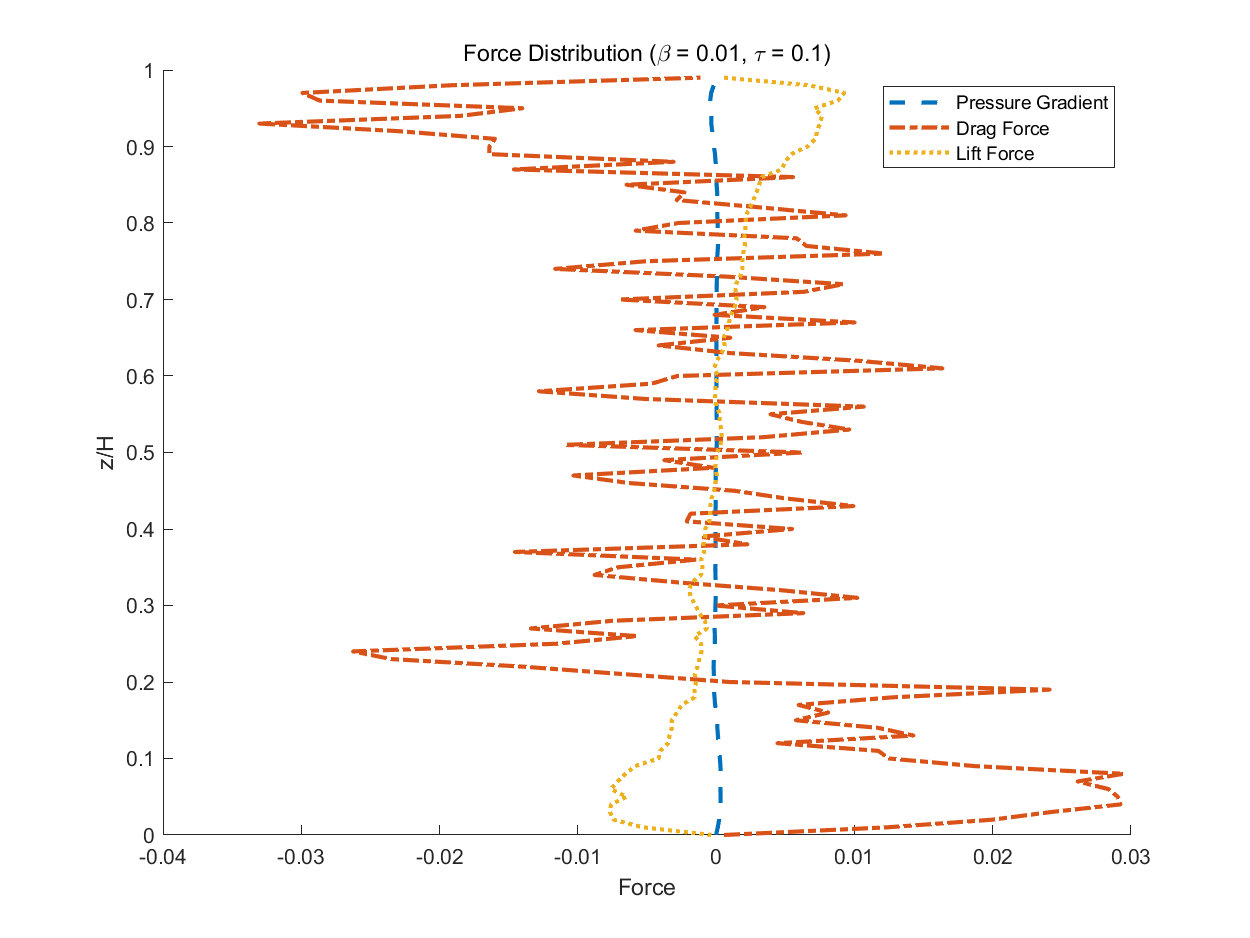
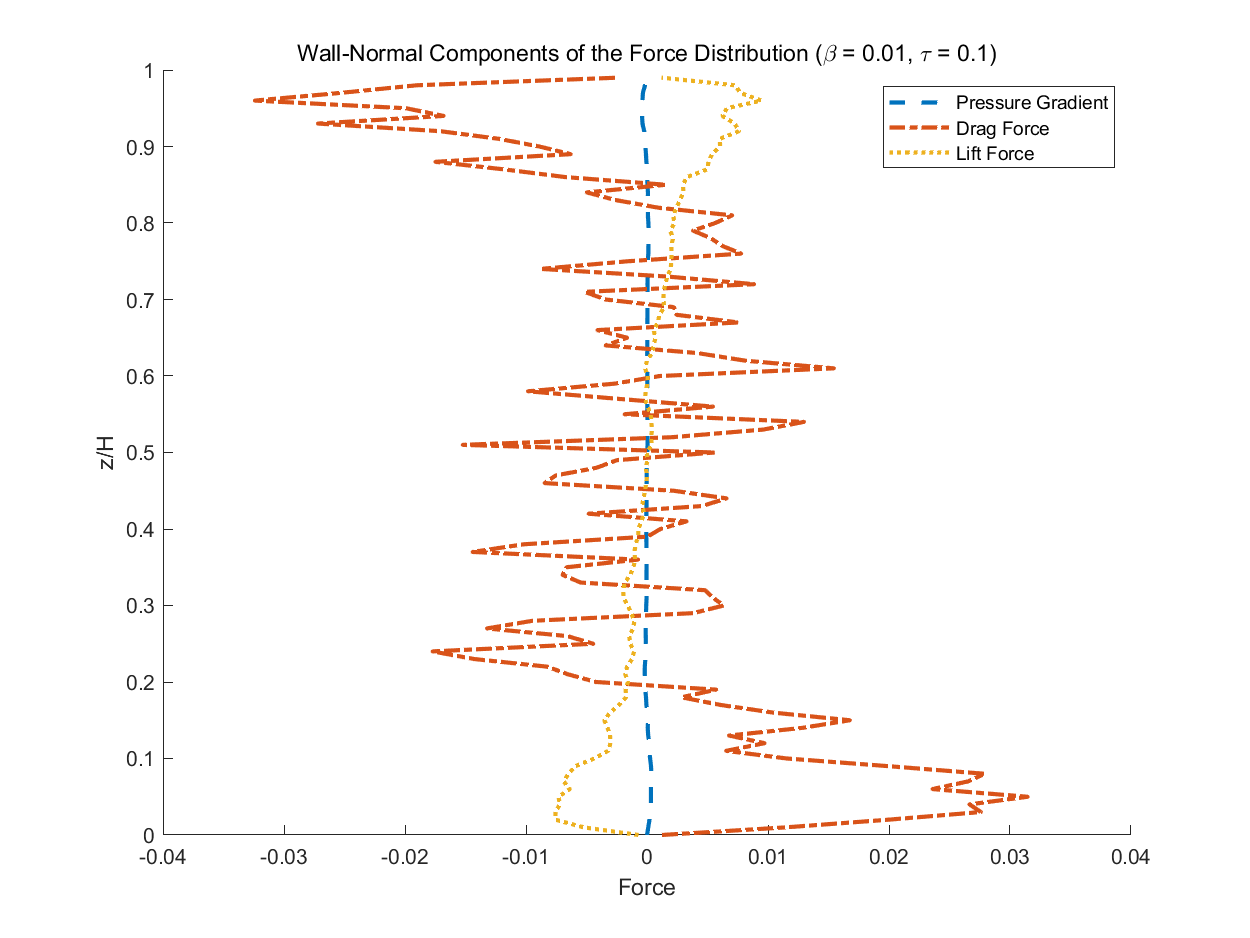
results update3

diff --git a/nosaff_data_analysis.m b/nosaff_data_analysis.m
@@ -1,5 +1,5 @@
-beta = 0.01;
-tau = 0.6;
+% beta = 0.01;
+% tau = 0.6;
 
 filename1 = sprintf('./results/nosaff_ensembleData_%g_%g.mat', beta, tau);
 filename2 = sprintf('./results/nosaff_pressure_gradient_%g_%g.mat', beta, tau);
@@ -47,32 +47,32 @@ title(sprintf('Wall-normal Velocity Distribution (\\beta = %g, \\tau = %g, witho
 saveas(gcf, sprintf('./figs/nosaff_Velocity_Distribution_%g_%g.png', beta, tau));
 
 %%
-dz = 0.01;
-z1 = 0:dz:1;
-num = size(pressure_data, 1);
-% 计算压力梯度分布
-pressure_distri = zeros(length(z1), 1);
-for i = 1 : length(z1)
-    pressure_distri(i) = sum(pressure_data(:,3) .* (particle_data(:,3) >= z1(i) & particle_data(:,3) < z1(i) + dz)) / sum(particle_data(:,3) >= z1(i) & particle_data(:,3) < z1(i) + dz);
-end
+% dz = 0.01;
+% z1 = 0:dz:1;
+% num = size(pressure_data, 1);
+% % 计算压力梯度分布
+% pressure_distri = zeros(length(z1), 1);
+% for i = 1 : length(z1)
+%     pressure_distri(i) = sum(pressure_data(:,3) .* (particle_data(:,3) >= z1(i) & particle_data(:,3) < z1(i) + dz)) / sum(particle_data(:,3) >= z1(i) & particle_data(:,3) < z1(i) + dz);
+% end
 
-% 计算Drag force分布
-drag_distri = zeros(length(z1), 1);
-for i = 1 : length(z1)
-    drag_distri(i) = sum(drag_data(:,3) .* (particle_data(:,3) >= z1(i) & particle_data(:,3) < z1(i) + dz)) / sum(particle_data(:,3) >= z1(i) & particle_data(:,3) < z1(i) + dz);
-end
+% % 计算Drag force分布
+% drag_distri = zeros(length(z1), 1);
+% for i = 1 : length(z1)
+%     drag_distri(i) = sum(drag_data(:,3) .* (particle_data(:,3) >= z1(i) & particle_data(:,3) < z1(i) + dz)) / sum(particle_data(:,3) >= z1(i) & particle_data(:,3) < z1(i) + dz);
+% end
 
-% 绘制分布图
-figure
-hold on
-plot(pressure_distri, z1, 'LineWidth', 2, 'LineStyle', '--');
-plot(drag_distri, z1, 'LineWidth', 2, 'LineStyle', '-.');
-plot(lift_distri, z1, 'LineWidth', 2, 'LineStyle', ':');
-set(gcf, 'Position', [100, 100, 800, 600]); % 调整绘制窗口大小
-hold off
-xlabel('Force');
-ylabel('z/H');
-title(sprintf('Force Distribution (\\beta = %g, \\tau = %g, without lift)', beta, tau));
-legend('Pressure Gradient', 'Drag Force', 'Lift Force');
+% % 绘制分布图
+% figure
+% hold on
+% plot(pressure_distri, z1, 'LineWidth', 2, 'LineStyle', '--');
+% plot(drag_distri, z1, 'LineWidth', 2, 'LineStyle', '-.');
+% plot(lift_distri, z1, 'LineWidth', 2, 'LineStyle', ':');
+% set(gcf, 'Position', [100, 100, 800, 600]); % 调整绘制窗口大小
+% hold off
+% xlabel('Force');
+% ylabel('z/H');
+% title(sprintf('Force Distribution (\\beta = %g, \\tau = %g, without lift)', beta, tau));
+% legend('Pressure Gradient', 'Drag Force', 'Lift Force');
 
-saveas(gcf, sprintf('./figs/nosaff_Force_Distribution_%g_%g.png', beta, tau));
+% saveas(gcf, sprintf('./figs/nosaff_Force_Distribution_%g_%g.png', beta, tau));

diff --git a/Data_Analysis.m b/Data_Analysis.m
@@ -1,5 +1,5 @@
-beta = 2.99;
-tau = 0.01;
+% beta = 0.01;
+% tau = 0.1;
 
 filename1 = sprintf('./results/ensembleData_%g_%g.mat', beta, tau);
 filename2 = sprintf('./results/pressure_gradient_%g_%g.mat', beta, tau);
@@ -89,7 +89,7 @@ saveas(gcf, sprintf('./figs/Particle_Distribution_xz_%g_%g.png', beta, tau));
 % title(sprintf('Particle Distribution in x-y Plane (\\beta = %g, \\tau = %g)', beta, tau));
 % saveas(gcf, sprintf('./figs/Particle_Distribution_xy_%g_%g.png', beta, tau));
 
-%% 绘制不同Force关于z的分布图
+%% 绘制wall normal Force关于z的分布图
 
 dz = 0.01;
 z1 = 0:dz:1;
@@ -122,7 +122,7 @@ set(gcf, 'Position', [100, 100, 800, 600]); % 调整绘制窗口大小
 hold off
 xlabel('Force');
 ylabel('z/H');
-title(sprintf('Force Distribution (\\beta = %g, \\tau = %g)', beta, tau));
+title(sprintf('Force Distribution (\\beta = %g, \\tau = %g, Wall-Normal Components)', beta, tau));
 legend('Pressure Gradient', 'Drag Force', 'Lift Force');
 
 saveas(gcf, sprintf('./figs/Force_Distribution_%g_%g.png', beta, tau));
@@ -160,4 +160,40 @@ hold off;
 saveas(gcf, sprintf('./figs/Particle_Distribution_xz_sec_%g.png',y_phy_sec));
 
 
-%% 计算所有的Particle Reynold Number
+%% 绘制Streamwise Force关于z的分布图
+
+dz = 0.01;
+z1 = 0:dz:1;
+num = size(pressure_data, 1);
+% 计算压力梯度分布
+pressure_distri = zeros(length(z1), 1);
+for i = 1 : length(z1)
+    pressure_distri(i) = sum(pressure_data(:,2) .* (particle_data(:,3) >= z1(i) & particle_data(:,3) < z1(i) + dz)) / sum(particle_data(:,3) >= z1(i) & particle_data(:,3) < z1(i) + dz);
+end
+
+% 计算Drag force分布
+drag_distri = zeros(length(z1), 1);
+for i = 1 : length(z1)
+    drag_distri(i) = sum(drag_data(:,2) .* (particle_data(:,3) >= z1(i) & particle_data(:,3) < z1(i) + dz)) / sum(particle_data(:,3) >= z1(i) & particle_data(:,3) < z1(i) + dz);
+end
+
+% 计算Lift force分布
+lift_distri = zeros(length(z1), 1);
+for i = 1 : length(z1)
+    lift_distri(i) = sum(lift_data(:,2) .* (particle_data(:,3) >= z1(i) & particle_data(:,3) < z1(i) + dz)) / sum(particle_data(:,3) >= z1(i) & particle_data(:,3) < z1(i) + dz);
+end
+
+% 绘制分布图
+figure
+hold on
+plot(pressure_distri, z1, 'LineWidth', 2, 'LineStyle', '--');
+plot(drag_distri, z1, 'LineWidth', 2, 'LineStyle', '-.');
+plot(lift_distri, z1, 'LineWidth', 2, 'LineStyle', ':');
+set(gcf, 'Position', [100, 100, 800, 600]); % 调整绘制窗口大小
+hold off
+xlabel('Force');
+ylabel('z/H');
+title(sprintf('Force Distribution (\\beta = %g, \\tau = %g, Streamwise Components)', beta, tau));
+legend('Pressure Gradient', 'Drag Force', 'Lift Force');
+
+saveas(gcf, sprintf('./figs/y-Force_Distribution_%g_%g.png', beta, tau));

diff --git a/main.m b/main.m
@@ -10,8 +10,8 @@ dt = 5e-3;         % 时间步长
 rho_c = 1;         % 流体密度
 
 % 无量纲参数
-beta = 2.99;  
-tau = 0.01;  % 弛豫时间tau(Stokes Number)
+% beta = 0.01;  
+% tau = 0.1;  % 弛豫时间tau(Stokes Number)
 
 % lambda = 400;        % 参数lambda
 % D = 0.001;          % 几何尺寸相关参数

diff --git a/batch_DA.m b/batch_DA.m
@@ -1,0 +1,13 @@
+%进行批量数据处理
+interpolation;
+tau_vals = [0.02,0.04,0.06,0.08, 0.2,0.4];
+beta_vals = [0.01,2];
+
+
+for k = 1:length(tau_vals)
+    for j = 1:length(beta_vals)
+        tau = tau_vals(k);
+        beta = beta_vals(j);
+        Data_Analysis;
+    end
+end

diff --git a/batch_run.m b/batch_run.m
@@ -1,0 +1,11 @@
+%批量运行
+tau_vals = [0.02,0.04,0.06,0.08, 0.2,0.4];
+beta_vals = [0.01,2];
+
+for i = 1:length(tau_vals)
+    for j = 1:length(beta_vals)
+        tau = tau_vals(i);
+        beta = beta_vals(j);
+        main;
+    end
+end
